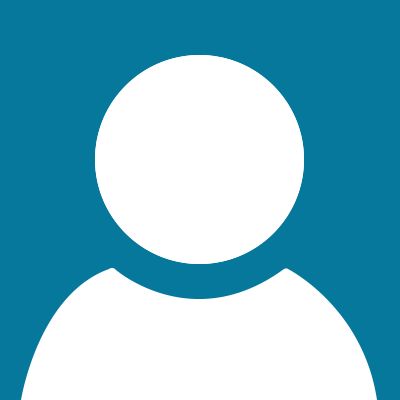
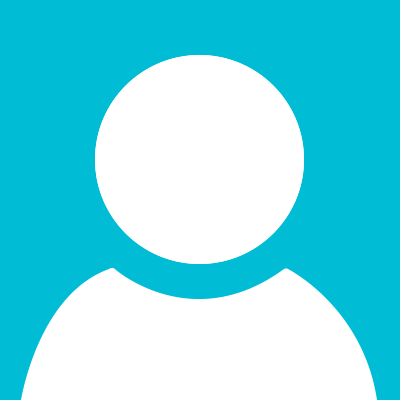
fix(common): set the new Plumes main color to #00BCD4

diff --git a/features/common/less/common-variables.less b/features/common/less/common-variables.less
@@ -1,4 +1,4 @@
-@accentColor: #ff6600;
+@accentColor: #00BCD4;
 @successColor: #4CAF50;
 @errorColor: #F44336;
 @darkColor: #333;
